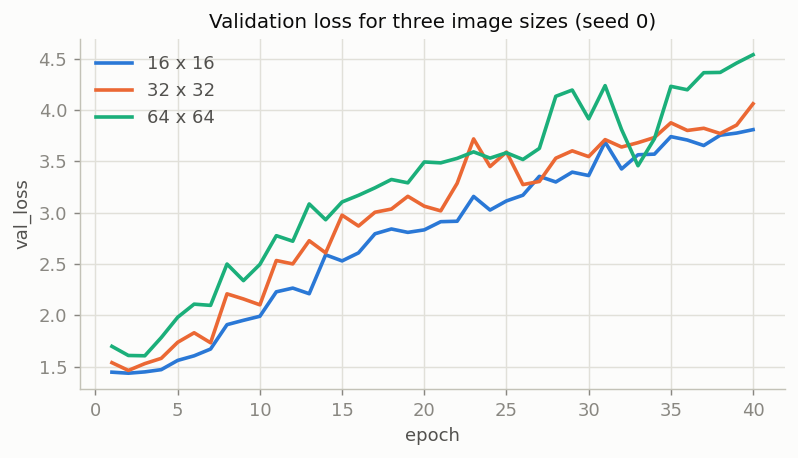
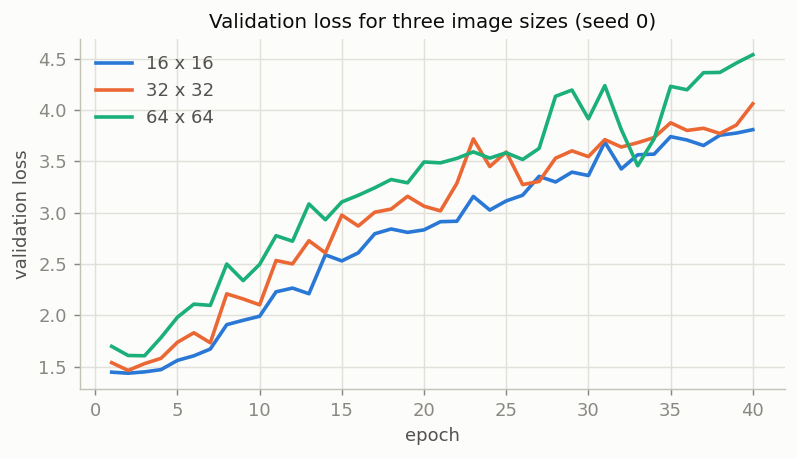
Run notebooks without timestamps and refresh notebooks 01 and 02

diff --git a/scripts/run_notebooks.py b/scripts/run_notebooks.py
@@ -17,8 +17,10 @@ NOTEBOOKS = Path(__file__).resolve().parents[1] / "notebooks"
 def run(source):
     t0 = time.perf_counter()
     subprocess.run([sys.executable, "-m", "jupytext", "--to", "ipynb", source.name], cwd=NOTEBOOKS, check=True)
+    # record_timing=False: no execution timestamps, so a re-run only changes the notebook if a result changes
     subprocess.run([sys.executable, "-m", "jupyter", "nbconvert", "--to", "notebook", "--execute", "--inplace",
-                    "--ExecutePreprocessor.timeout=-1", source.with_suffix(".ipynb").name],
+                    "--ExecutePreprocessor.timeout=-1", "--ExecutePreprocessor.record_timing=False",
+                    source.with_suffix(".ipynb").name],
                    cwd=NOTEBOOKS, check=True)
     print(f"{source.stem}: done in {time.perf_counter() - t0:.0f} s")
 

diff --git a/notebooks/01_data.py b/notebooks/01_data.py
@@ -165,7 +165,7 @@ print("split saved to reports/split.csv")
 # and in test (50 for Impressionism, because its painters come in blocks of up to 50 images).
 #
 # With our split grouped by painter, **none** of the 32 known painters appears in two parts. With a
-# plain random split, 23 of the 32 painters would be in two parts or more. In notebook 03 we measure
+# plain random split, 23 of the 32 painters would be in two parts or more. In notebook 05 we measure
 # how much this changes the score of a model.
 #
 # The split is saved in `reports/split.csv`, so every notebook uses exactly the same images.
